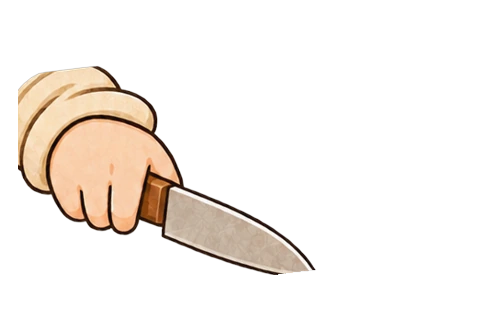
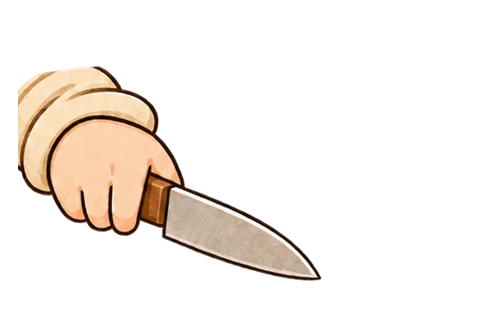
Panel performances: fix knife-arm layer and play/stop edge cases
Takes over the chop and hear in-panel performances from feat/visual-direction
(merged into this branch) instead of reimplementing them.

- Knife arm layer: transform from a padded crop so the blade tip (page y 820,
  panel box ends at 810) is no longer cut flat; transform in premultiplied
  alpha and paste without a self-mask (alpha was squared, cuff semi-
  transparent); interior forced opaque, soft edge kept. Other layers
  regenerate byte-identical.
- Turning performances off mid-chop (reduced motion / ?perf=0) now stops the
  timeline, so no detached chopHit events.
- Leaving mid-chop eases the knife back over 0.15 s instead of snapping.
- Leaving the hear panel before the puzzled face lands on the puzzled face,
  so scrolling back never shows a half-finished expression.
- Landing inside an already settled panel (reload, fast jump) plays once.
- Task file: asset map (Desktop originals -> project copies -> layers ->
  components -> beats), reference notes, verification, remaining issues.

diff --git a/src/app/preview/visual/PanelPerf.tsx b/src/app/preview/visual/PanelPerf.tsx
@@ -35,29 +35,50 @@ const flag = (on: boolean) => {
   else delete document.documentElement.dataset.comicPerf;
 };
 
-/** 越过 START 时触发一次；q < RESET 时复位；q > LEAVE 时收住。返回的 ref 记录是否已播过（本次进入） */
+/**
+ * 越过 START 时触发一次；q < RESET 时复位；q > LEAVE 时收住。
+ * - 首次挂载时若格子已经稳定在 [START, LEAVE)（刷新或快速跳到中段）也播一次；
+ * - 关掉表演（减少动态效果 / ?perf=0）时立即收住，避免分离的时间轴继续派发落刀声；
+ * - 卸载时收住（离场、回滚出可见范围），重新进入是新实例，重新判断。
+ */
 function useCrossing(q: number, enabled: boolean, play: () => void, stop: () => void, reset: () => void) {
   const prev = useRef<number | null>(null);
   const played = useRef(false);
+  const wasEnabled = useRef(enabled);
   useEffect(() => {
     const pq = prev.current;
     prev.current = q;
-    if (!enabled) return;
+    if (!enabled) {
+      if (wasEnabled.current) { wasEnabled.current = false; played.current = false; reset(); }
+      return;
+    }
+    wasEnabled.current = true;
     if (q < RESET) { if (played.current) { played.current = false; reset(); } return; }
     if (q > LEAVE) { stop(); return; }
-    if (pq !== null && pq < START && q >= START && !played.current) { played.current = true; play(); }
+    const crossed = pq !== null && pq < START && q >= START;
+    const landedInside = pq === null && q >= START;
+    if ((crossed || landedInside) && !played.current) { played.current = true; play(); }
   });
-  useEffect(() => () => { stop(); }, []); // eslint-disable-line react-hooks/exhaustive-deps
+  useEffect(() => () => { reset(); }, []); // eslint-disable-line react-hooks/exhaustive-deps
 }
 
 export function ChopPanel({ p, pos, dy, q, animate }: { p: PanelSlot; pos: Place; dy: number; q: number; animate: boolean }) {
   const arm = useRef<HTMLImageElement>(null);
   const tl = useRef<gsap.core.Timeline | null>(null);
-  const stop = () => { tl.current?.kill(); tl.current = null; if (arm.current) gsap.set(arm.current, { rotation: 0, yPercent: 0 }); flag(false); };
+  /** 硬复位：卸载、回滚到进入前、关掉表演 */
+  const reset = () => { tl.current?.kill(); tl.current = null; if (arm.current) gsap.set(arm.current, { rotation: 0, yPercent: 0 }); flag(false); };
+  /** 格子开始离开：停掉后续刀数，刀若在半空就 0.15 秒缓落回原位（不发声），不瞬移 */
+  const stop = () => {
+    if (!tl.current) return;
+    tl.current.kill();
+    tl.current = null;
+    if (arm.current) gsap.to(arm.current, { rotation: 0, yPercent: 0, duration: 0.15, ease: "power1.out", overwrite: true });
+    flag(false);
+  };
   const play = () => {
     const el = arm.current;
     if (!el) return;
-    stop();
+    reset();
     flag(true);
     const contact = () => window.dispatchEvent(new CustomEvent(KITCHEN_ONESHOT_EVENT, { detail: { sound: "chopHit" } }));
     const t = gsap.timeline({ delay: 0.3, onComplete: () => { tl.current = null; flag(false); } });
@@ -71,7 +92,7 @@ export function ChopPanel({ p, pos, dy, q, animate }: { p: PanelSlot; pos: Place
     }
     tl.current = t;
   };
-  useCrossing(q, animate, play, stop, stop);
+  useCrossing(q, animate, play, stop, reset);
   if (!animate) return <StaticImg src={p.src!} pos={pos} aspect={p.aspect} dy={dy} />;
   return (
     <div className="absolute will-change-transform" style={boxStyle(pos, p.aspect, dy)}>
@@ -103,10 +124,12 @@ export function HearPanel({ p, pos, dy, q, animate }: { p: PanelSlot; pos: Place
     flag(true);
     timers.current = [
       window.setTimeout(() => show(1), 500), // 先停住，再抬眼
-      window.setTimeout(() => { show(2); flag(false); }, 1300), // 露出疑惑，停住
+      window.setTimeout(() => { show(2); timers.current = []; flag(false); }, 1300), // 露出疑惑，停住
     ];
   };
-  const stop = () => clear(); // 离开时保持当前表情
+  // 离开时：还没播完就直接落到结尾表情（疑惑），保证这一格的终态始终一致；
+  // 否则停在"抬眼"半途，回滚回来也一直是半截表情。已播完时什么都不做。
+  const stop = () => { if (timers.current.length) { clear(); show(2); } };
   const reset = () => { clear(); show(0); };
   useCrossing(q, animate, play, stop, reset);
   if (!animate) return <StaticImg src={p.src!} pos={pos} aspect={p.aspect} dy={dy} />;

diff --git a/tools/prepare_perf_layers.py b/tools/prepare_perf_layers.py
@@ -14,6 +14,7 @@ import json
 
 import numpy as np
 from PIL import Image, ImageFilter
+from scipy import ndimage
 
 from panel_alpha import dilate, outside_mask, process  # noqa: E402  (同目录工具)
 
@@ -30,13 +31,24 @@ save(base, "p2b-base")
 W, H = base.size
 
 FIT = {"ang": 7.0, "sc": 0.92, "dx": 6, "dy": -17, "pivot": (20, 150)}
-arm = Image.open(f"{S}/02-knife-arm-overlay-draft.png").convert("RGBA").crop(box)
-r = arm.rotate(FIT["ang"], resample=Image.BICUBIC, center=FIT["pivot"], translate=(FIT["dx"], FIT["dy"]))
-w2, h2 = int(W * FIT["sc"]), int(H * FIT["sc"])
-r2 = r.resize((w2, h2), Image.BICUBIC)
-armc = Image.new("RGBA", (W, H))
+# 先按裁切框外扩 PAD 再变换，最后才裁回格子：草图的刀尖在页面 y≈820，框底是 810，
+# 旧做法先裁后转，刀尖被平切掉（scroll-motion-demo 2026-11-14 修）。
+# 变换在预乘 alpha（RGBa）下做，避免透明黑边渗进柔边；贴到空画布时不再用自身 alpha 当蒙版（旧做法让 alpha 变成 a²，袖口半透明）。
+PAD = 120
 px, py = FIT["pivot"]
-armc.paste(r2, (int(px - px * FIT["sc"]), int(py - py * FIT["sc"])), r2)
+arm = Image.open(f"{S}/02-knife-arm-overlay-draft.png").convert("RGBA").crop((box[0] - PAD, box[1] - PAD, box[2] + PAD, box[3] + PAD))
+arm = arm.convert("RGBa")
+r = arm.rotate(FIT["ang"], resample=Image.BICUBIC, center=(px + PAD, py + PAD), translate=(FIT["dx"], FIT["dy"]))
+w2, h2 = round((W + 2 * PAD) * FIT["sc"]), round((H + 2 * PAD) * FIT["sc"])
+r2 = r.resize((w2, h2), Image.BICUBIC).convert("RGBA")
+armc = Image.new("RGBA", (W, H))
+ox, oy = round(px - (px + PAD) * FIT["sc"]), round(py - (py + PAD) * FIT["sc"])
+armc.paste(r2, (ox, oy))  # 画布是空的，直接贴（不带蒙版）
+# 手臂内部（离边缘 3px 以上）一律不透明，柔边保留
+_a = np.asarray(armc).copy()
+_solid = ndimage.binary_erosion(ndimage.binary_fill_holes(_a[..., 3] > 128), iterations=3)
+_a[..., 3] = np.where(_solid, 255, _a[..., 3])
+armc = Image.fromarray(_a, "RGBA")
 # 框线内侧：底图里框外透明 + 框线（深色）区域都不让手臂覆盖
 ba = np.asarray(base)
 rgb = ba[..., :3].astype(float)

diff --git a/docs/tasks/scroll-motion-demo.md b/docs/tasks/scroll-motion-demo.md
@@ -165,3 +165,60 @@ A、B 到位后可以去掉近景的裁切复用和主格的色块背景；C 不
 ### 需要集成会话改（第二轮追加）
 
 8. 无（这一轮只读共享文件）。如果用户确认这个构图，正式首页的切菜屏建议由 comic-scroll 按这个版式落地，`comic-parts.tsx` 的手绘框和气泡可以搬过去。
+
+## 第三轮：前景局部动画（切菜刀手、妈妈表情）——接手、修正、验证（2026-11-14）
+
+### 起点
+
+- 分支 `feat/scroll-motion-demo`，合入最新已提交的 `origin/main`（500ceac 合并），再合入 `origin/feat/visual-direction`（3208f81 合并）。原因：正式漫画布局 `/preview/visual` 和这两格的第一版表演（19513da "In-panel performance for two panels"、bd4cf2a 落刀事件）都只在 visual-direction 上，main 还没有；按"完成部分不重复实现"，在它的基础上修正，而不是另写一套。
+- 没有恢复第一轮被否决的卡片栏、缩略图收纳或旧滚动布局；`/demo/scroll-motion` 路由按主会话要求保持不动。
+- worktree 依赖用 `npm ci` 按 lockfile 重装（main 引入了 lenis），没有新增包。
+
+### 素材对应表（桌面原件不动，只处理项目副本；副本与原件逐字节一致，已用 shasum 核对）
+
+| 桌面源文件（~/Desktop/new pics/） | 项目副本 | 生成的图层 | 使用组件 | 剧情段落 |
+|---|---|---|---|---|
+| 01-chopping-clean-plate.png（切菜无刀手底图） | source/comic-v3-perf/01-chopping-clean-plate.png | public/assets/comic-v3/perf/p2b-base.webp；对白泡 p2b-bubble.webp 也从它取出 | `ChopPanel`（src/app/preview/visual/PanelPerf.tsx，ComicLayer 的 FlowLayer 里替换 p2b） | 第 2 页 B 格"哒、哒、哒"，节拍 `chop`（v2 表 475–605vh，📌prep） |
+| 02-knife-arm-overlay-draft.png（透明握刀手臂层） | source/comic-v3-perf/02-knife-arm-overlay-draft.png | p2b-arm.webp（**本轮重做**） | `ChopPanel` | 同上 |
+| 03-mom-eyes-up.png（抬眼） | source/comic-v3-perf/03-mom-eyes-up.png | p3d-eyes.webp（只含眉眼嘴区域） | `HearPanel` | 第 3 页 D 格"嗯？啵！"，节拍 `hear`（1040–1140vh，接在 `missing`"饭少点什么"之后） |
+| 04-mom-puzzled.png（疑惑） | source/comic-v3-perf/04-mom-puzzled.png | p3d-puzz.webp | `HearPanel` | 同上 |
+
+图层生成：`PYTHONPATH=tools python3 tools/prepare_perf_layers.py`（从仓库根目录运行）。
+
+### 参考
+
+- **Ponpon Mania**（codrops 2025-10-07）：每格的元素单独分层导出，在完整画格里重建，只让少数元素用 GSAP 时间轴表演，元素切换用"整组显隐"而不是变形；滚动只负责相机和进度。借：分层 + 少数元素表演 + 显隐切换（表情硬切）。不借：WebGL / 贴图集、它的 `repeat: -1` 循环和弹性缓动（我们只播一次、停住）。
+- **SeamTransitions**（github.com/codrops/SeamTransitions，MIT，版权 Codrops；仓库里打包的 GSAP 3.15 文件另受 GSAP 标准许可约束）：不固定任何东西，接缝是跟着内容一起滚的盒子；一个 gsap.ticker 统一算 progress 广播给所有接缝；只画与下层不同的像素、进度 0 时完全透明、边缘 1px 内实心盖住亚像素错位、用与真实图层同一套 cover 计算。属于后景转场，本任务不用；给后景负责人的建议写在共享笔记 `seam-transitions-notes.md`。
+
+### 本轮修正（都在共享笔记的对比录屏里能看到）
+
+1. **刀尖被平切**：`prepare_perf_layers.py` 先把草图裁到格子框再旋转缩放，草图刀尖在页面 y≈820、框底 810，刀尖被切成平头。改为外扩 120px 再变换、最后裁回。
+2. **袖口半透明**：贴到空画布时用了自身 alpha 当蒙版，alpha 变成 a²（247→239，内部 4056 个像素不实）。改为预乘 alpha 下变换、直接贴，手臂内部（离边 3px 以上）一律不透明，柔边保留。其余图层重新生成后逐字节不变。
+3. **关掉表演时声音不停**：表演进行中切到"减少动态效果"，旧逻辑不收住时间轴，分离的时间轴会继续派发落刀声。现在一关掉就硬复位。
+4. **离场瞬移**：刀在半空时格子开始离开，旧逻辑 `gsap.set` 瞬间归位；现在停掉后续刀数，0.15 秒缓落回原位，不发声。
+5. **表情停在半截**：表情还没到"疑惑"就滚走，旧逻辑停在"抬眼"，回滚回来也一直是半截；现在离场时直接落到终态"疑惑"。
+6. **落在格子中段不播**：刷新或快速跳进已稳定的格子（q 已在 0.36–0.72），旧逻辑永远不播；现在首次挂载在这个区间也播一次。
+
+### 验证（无头 Chrome 1440×900，逐帧录屏 + DOM 读数；应用内浏览器面板隐藏时 rAF 暂停，不能用来看动画）
+
+- 切菜：格子稳定后切三刀，落刀声事件间隔 583 ms（抬 0.17 s → 停 0.05 s → 落 0.075 s → 接触派发 `kitchen:oneshot` chopHit → 反作用 0.125 s → 间隔 0.16 s），之后停住。底图、框线、对白不动；手臂绕袖口支点（格子左缘）转 −9° 并上提 3%，袖口始终压在左框线外侧，不脱离。
+- 回滚 / 重进：小幅回滚（仍在复位线 0.3 之上）不重播；回到 0.3 以下复位；离场途中只响已开始的那一刀；滚出可见范围卸载；从前面重新进入再播一次；从后面倒滚回来不重播。共 7 刀 = 3 + 1 + 3，与预期一致。
+- 表情：越过 0.36 后 0.5 s 抬眼、1.3 s 疑惑，硬切、无交叉淡化、头部逐像素对齐，停在疑惑；小幅回滚保持疑惑，回到 0.3 以下恢复原表情。
+- 减少动态效果：两格都显示原静态格（p2b.webp / p3d.webp），0 个落刀声事件。
+- 没有重复实例：同一时刻 DOM 里只有一个 p2b-arm、一组 p3d 图层；背景蛋在表演期间暂缓小跳（`data-comic-perf`），表演结束或离场时清掉标记。
+- `npm run lint`、`npm run build` 通过。
+
+### 真实剩余问题
+
+1. **手臂草图和原格不完全匹配**：草图里的手按校准缩到 0.92，刀身也比原格短一截。静止时刀尖落在胡萝卜端头上，不像原格那样压到砧板，读作"正切进胡萝卜"，可以接受，但不如原格准确。若要完全对齐，需要画师按原格同尺寸重画一张握刀手臂层（袖口到刀尖完整，透明底）。
+2. **底图是重画的**：无刀手底图里胡萝卜丁的排列和原格不同，所以"静态原格（?perf=0 / 减少动态效果）"和"表演版"在胡萝卜丁上有差异。
+3. **表情变化很细**：原格本来就在往上看，"抬眼"和原格差别主要在上眼睑和瞳孔位置；在约 320px 宽的格子里，第一步变化不明显，"疑惑"（眉毛一高一低、嘴张开）比较明显。如需更清楚，需要画师加大抬眼一步的差别。
+4. **减少动态效果时没有切菜声**：静态格不派发落刀声，切菜段在这种模式下是安静的。是否要按固定时刻补三声，交给声音负责人决定。
+5. **声音没有真听**：无头录制是静音的，只核对了三次事件派发的时刻和间隔；混音器侧的接收由 kitchen-audio 会话验证过（见 public/assets/audio/README.md）。
+6. 只验证了 1440×900 横屏；竖屏和窄屏布局下格子更小，没有重新录。
+7. `beats.visual-v2.json` 的 chop 段 loops 里还写着 `"chop": 0.5`；audio-map 已不加载 chop 循环，所以不会和逐刀声重复，但数据上可以清掉（不在我的文件范围，交主会话）。
+
+### 需要集成会话改（第三轮）
+
+9. 合并本分支时注意：本分支已合入 visual-direction（3208f81）。我改动的共享文件只有 `src/app/preview/visual/PanelPerf.tsx`、`tools/prepare_perf_layers.py`、`public/assets/comic-v3/perf/p2b-arm.webp`，其余都是合并带来的。
+10. 可选：`beats.visual-v2.json` chop 段去掉 `"chop": 0.5`（见剩余问题 7）。
